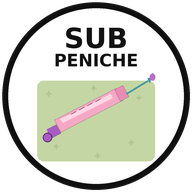
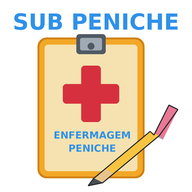
Ícone PWA CE Peniche e sem convite de instalação
O atalho no telemóvel chama-se CE Peniche. O botão para
instalar o relatório no telemóvel foi retirado.

diff --git a/src/components/pwa-register.tsx b/src/components/pwa-register.tsx
@@ -1,55 +1,11 @@
-import { useEffect, useState } from "react";
-import { Button } from "@/components/ui/button";
+import { useEffect } from "react";
 
 export function PwaRegister() {
-  const [installable, setInstallable] = useState<BeforeInstallPromptEvent | null>(
-    null,
-  );
-  const [standalone, setStandalone] = useState(false);
-
   useEffect(() => {
     if (typeof window === "undefined") return;
-    const media = window.matchMedia("(display-mode: standalone)");
-    setStandalone(media.matches || window.navigator.standalone === true);
     if ("serviceWorker" in navigator) {
       void navigator.serviceWorker.register("/sw.js");
     }
-    const onPrompt = (e: Event) => {
-      e.preventDefault();
-      setInstallable(e as BeforeInstallPromptEvent);
-    };
-    window.addEventListener("beforeinstallprompt", onPrompt);
-    return () => window.removeEventListener("beforeinstallprompt", onPrompt);
   }, []);
-
-  if (standalone || !installable) return null;
-
-  return (
-    <div className="no-print fixed right-3 bottom-[4.5rem] z-40 max-w-[16rem] rounded-lg border border-border bg-surface p-3 shadow-lg sm:bottom-4">
-      <p className="text-xs text-muted">
-        Instale o Relatório CE no telemóvel para preencher fora da rede do
-        serviço.
-      </p>
-      <Button
-        size="sm"
-        className="mt-2 w-full"
-        onClick={async () => {
-          await installable.prompt();
-          setInstallable(null);
-        }}
-      >
-        Adicionar ao ecrã inicial
-      </Button>
-    </div>
-  );
-}
-
-interface BeforeInstallPromptEvent extends Event {
-  prompt: () => Promise<void>;
-}
-
-declare global {
-  interface Navigator {
-    standalone?: boolean;
-  }
+  return null;
 }

diff --git a/src/routes/__root.tsx b/src/routes/__root.tsx
@@ -18,7 +18,7 @@ export const Route = createRootRoute({
       },
       { name: "theme-color", content: "#007a33" },
       { name: "apple-mobile-web-app-capable", content: "yes" },
-      { name: "apple-mobile-web-app-title", content: "SUB Peniche" },
+      { name: "apple-mobile-web-app-title", content: "CE Peniche" },
       { name: "mobile-web-app-capable", content: "yes" },
     ],
     links: [
